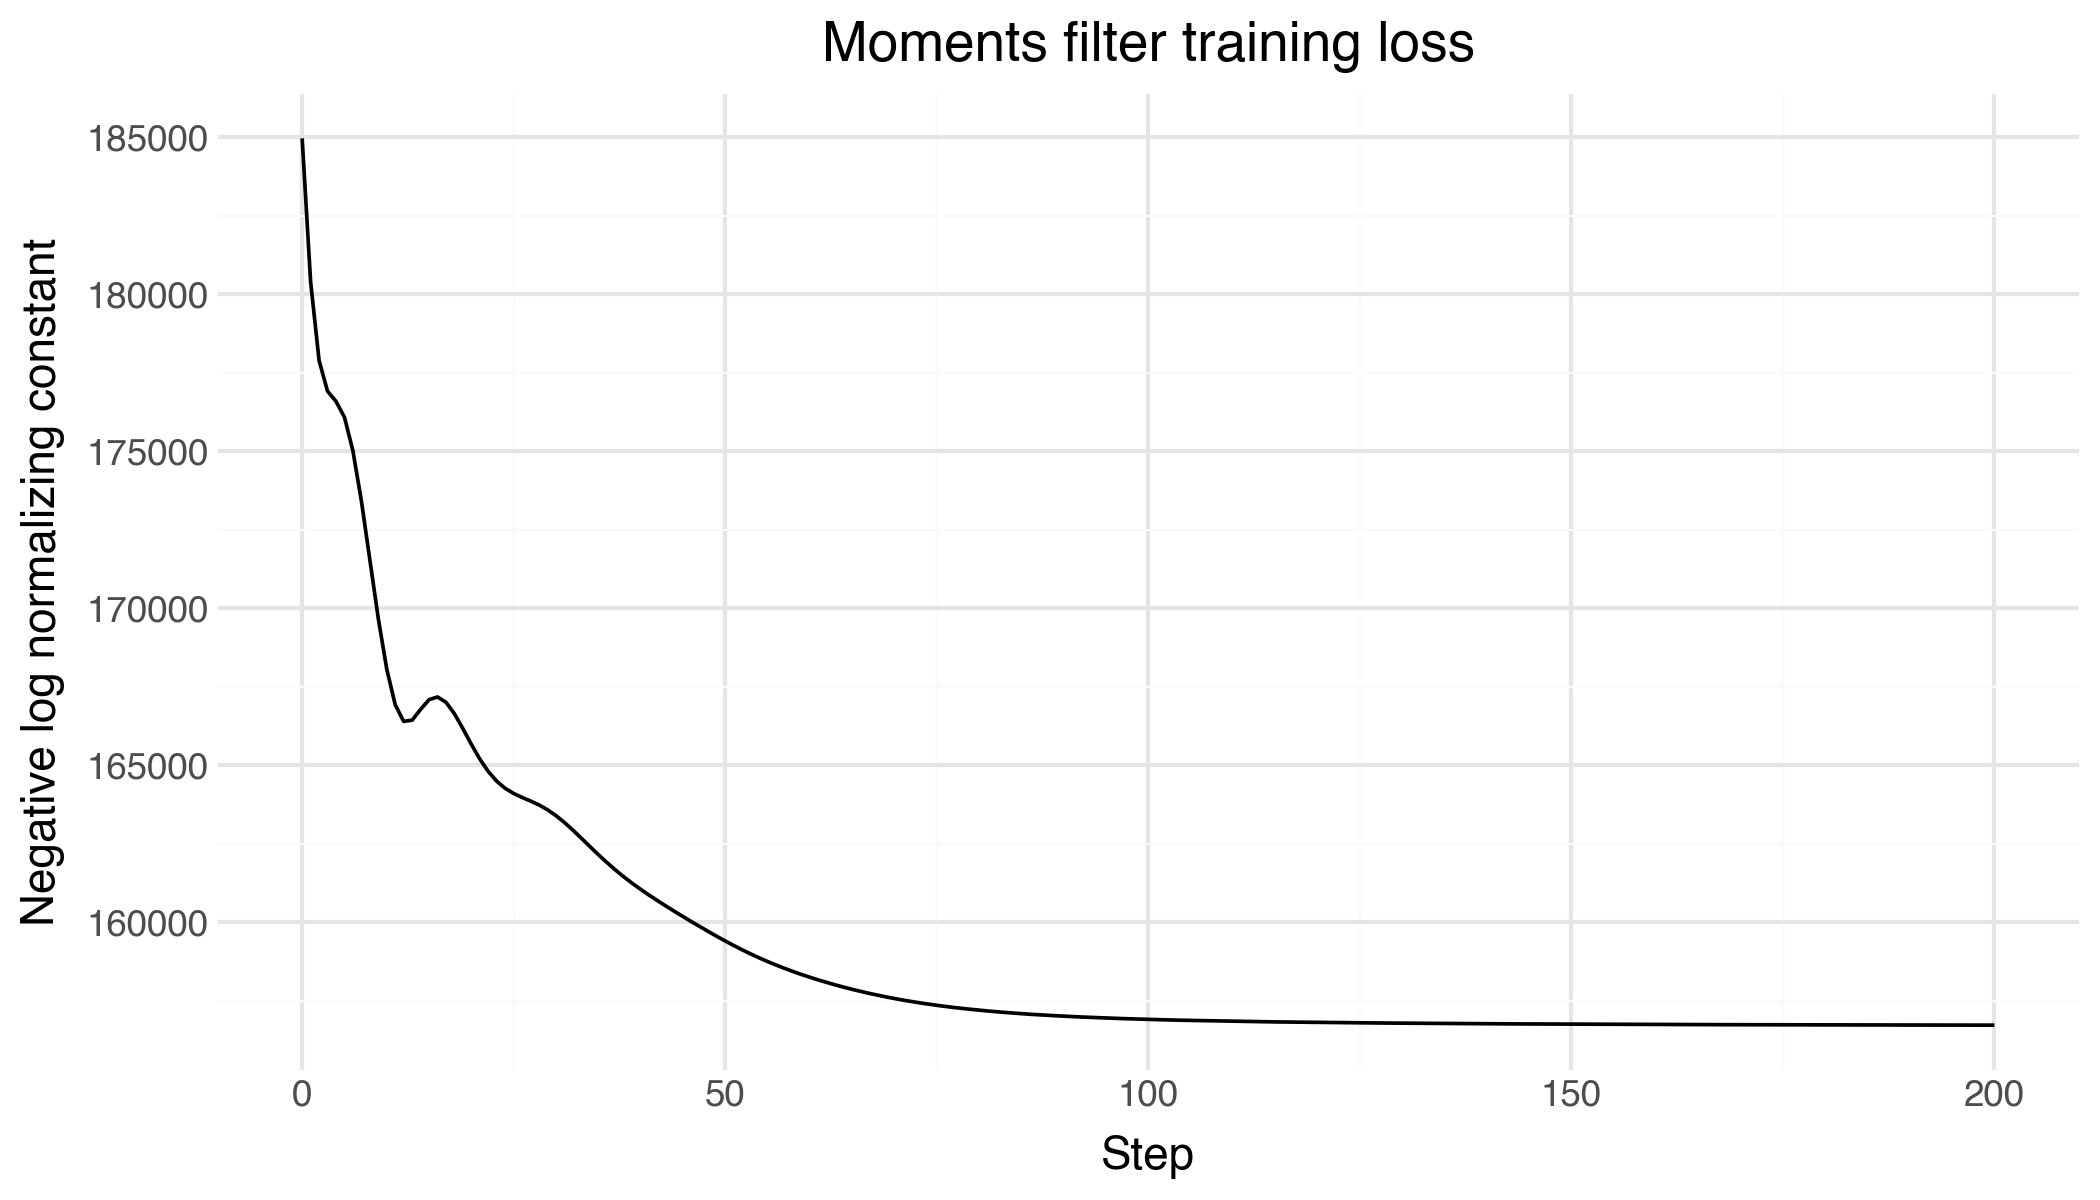
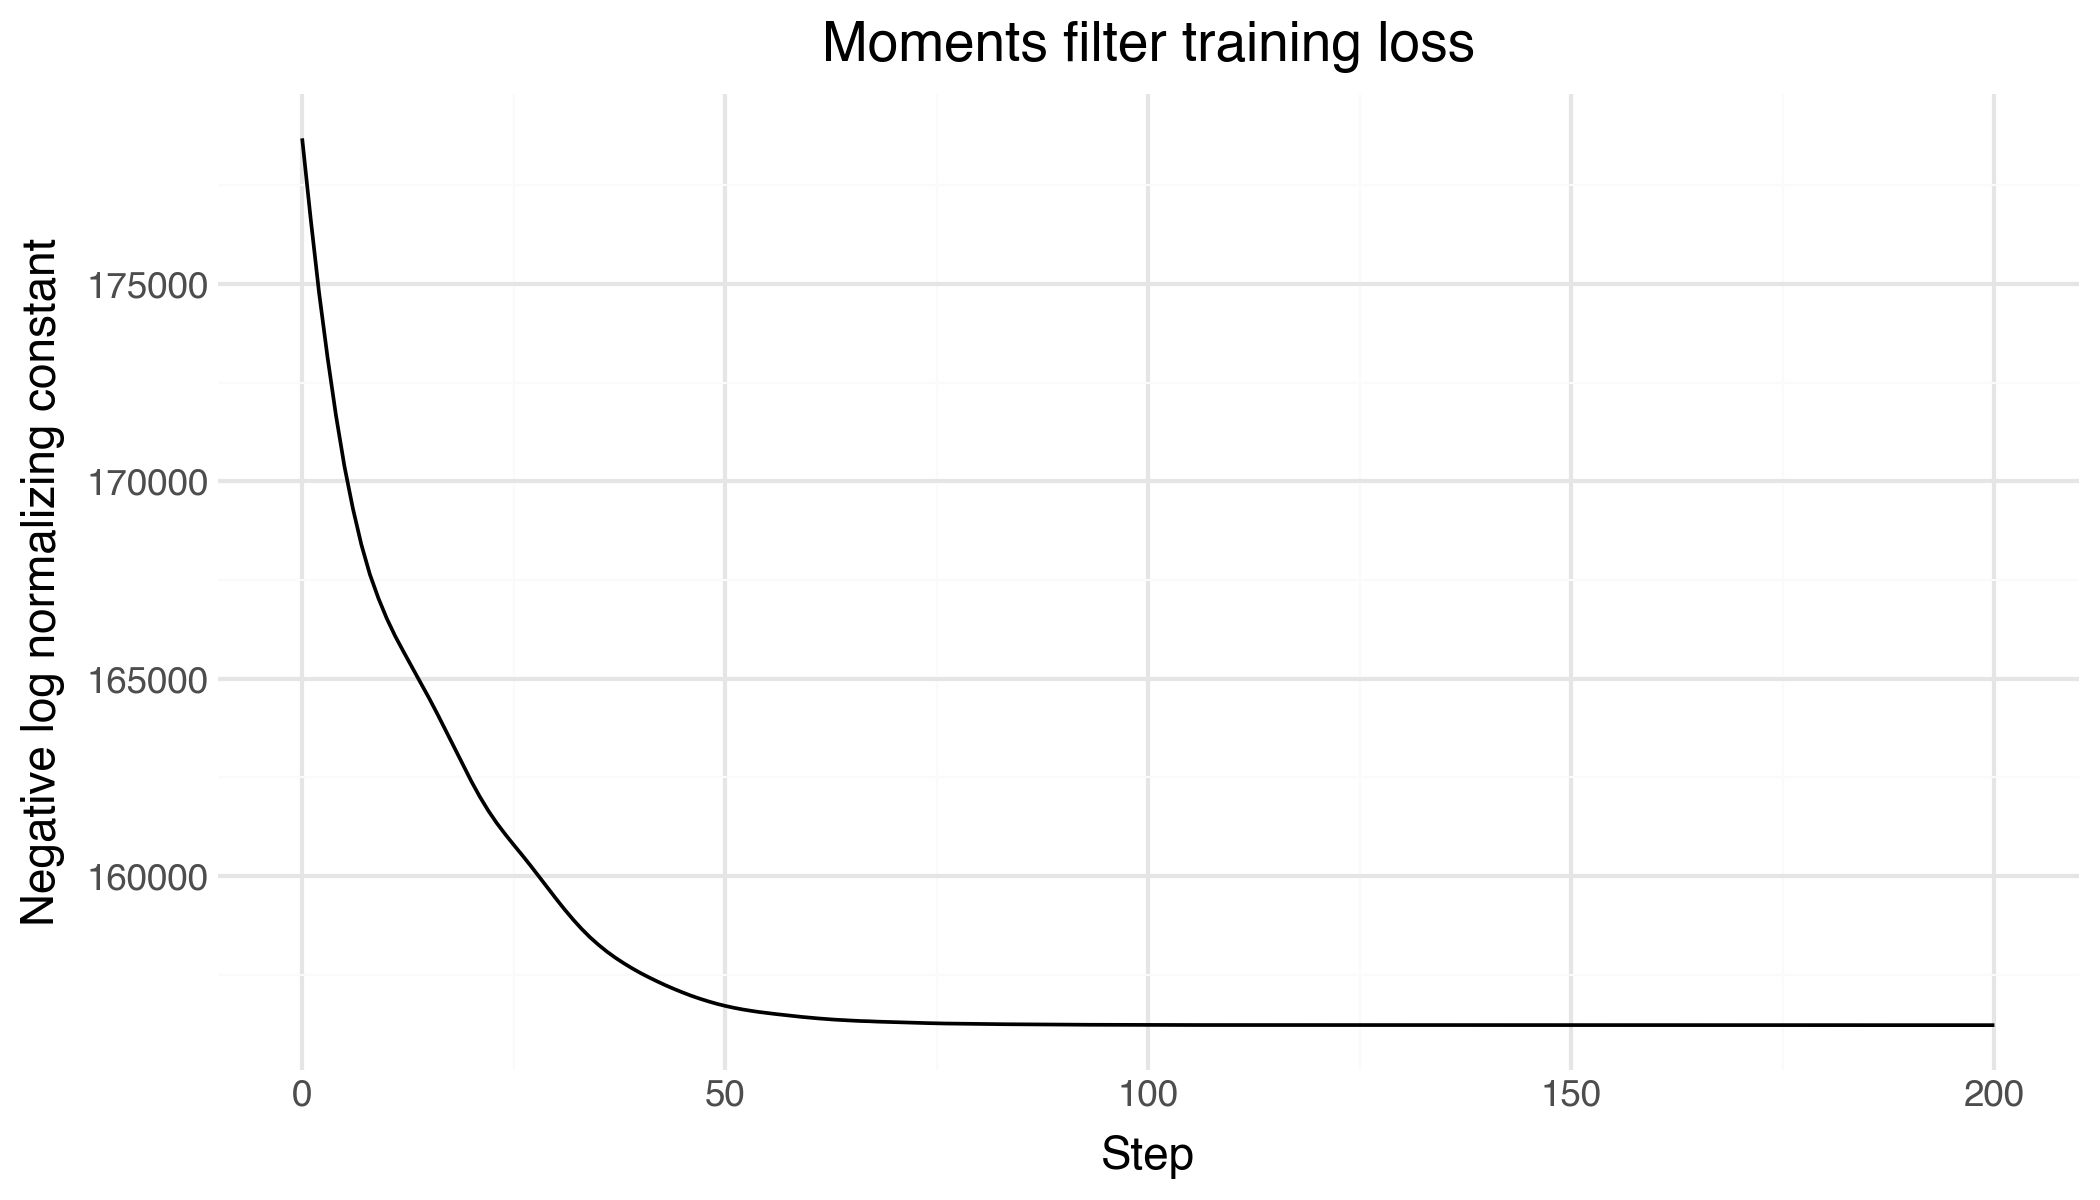
Revert to init_cov, remove \kappa

diff --git a/tests/test_model_moments.py b/tests/test_model_moments.py
@@ -18,8 +18,7 @@ num_teams = 5
 init_mean = jnp.array([1.2, 3.2])
 init_cov = jnp.array([[0.09, -0.12], [-0.12, 1.21]])
 init_chol_cov = jnp.linalg.cholesky(init_cov)
-tau = jnp.array([0.1, 0.2])
-kappa = jnp.array([0.0, 0.0])
+kappa = jnp.array([0.1, 0.2])
 alpha = 1.0
 beta = -4.0
 friendly_scale = 1.5
@@ -33,7 +32,10 @@ filter = moments.build_filter(
         num_teams=num_teams,
     ),
     get_dynamics_params=partial(
-        get_dynamics_params, tau=tau, init_mean=init_mean, kappa=kappa
+        get_dynamics_params,
+        init_mean=init_mean,
+        init_chol_cov=init_chol_cov,
+        kappa=kappa,
     ),
     get_observation_params=partial(
         get_observation_params,
@@ -89,13 +91,11 @@ def test_dynamics_params():
     state = filter.init_prepare(None)
     model_inputs = _result_data()
     mean_func, lin_point = get_dynamics_params(
-        state, model_inputs, tau, init_mean, kappa
+        state, model_inputs, init_mean, init_chol_cov, kappa
     )
 
     mat, shift, chol_cov = linearize_moments(mean_func, lin_point)
 
-    assert jnp.allclose(jnp.eye(4), mat)
-    assert jnp.array_equal(jnp.zeros(4), shift)
     assert model_inputs.home_timestamp_previous is not None
     assert model_inputs.away_timestamp_previous is not None
     time_diffs = model_inputs.timestamp - jnp.array(
@@ -105,9 +105,47 @@ def test_dynamics_params():
         ]
     )
     time_diffs_repeated = jnp.repeat(time_diffs, 2)
-    tau_repeated = jnp.tile(tau, 2)
-    desired_cov = jnp.diag((tau_repeated**2) * time_diffs_repeated)
-    assert jnp.allclose(desired_cov, chol_cov @ chol_cov.T)
+    kappa_repeated = jnp.tile(kappa, 2)
+    phi = jnp.exp(-kappa_repeated * time_diffs_repeated)
+    init_mean_repeated = jnp.tile(init_mean, 2)
+    stationary_cov = jnp.kron(jnp.eye(2), init_cov)
+    desired_cov = stationary_cov * (1.0 - phi[:, None] * phi[None, :])
+
+    assert jnp.allclose(jnp.diag(phi), mat)
+    assert jnp.allclose(init_mean_repeated * (1.0 - phi), shift)
+    assert jnp.allclose(
+        desired_cov,
+        chol_cov @ chol_cov.T,
+        atol=1e-6,
+    )
+
+
+def test_dynamics_stationary_covariance_is_init_cov():
+    state = filter.init_prepare(None)
+    model_inputs = _result_data()
+    mean_func, _ = get_dynamics_params(
+        state, model_inputs, init_mean, init_chol_cov, kappa
+    )
+
+    assert model_inputs.home_timestamp_previous is not None
+    assert model_inputs.away_timestamp_previous is not None
+    time_diffs = model_inputs.timestamp - jnp.array(
+        [
+            model_inputs.home_timestamp_previous,
+            model_inputs.away_timestamp_previous,
+        ]
+    )
+    time_diffs_repeated = jnp.repeat(time_diffs, 2)
+    phi = jnp.exp(-jnp.tile(kappa, 2) * time_diffs_repeated)
+    stationary_cov = jnp.kron(jnp.eye(2), init_cov)
+    transition_mean, transition_chol_cov = mean_func(jnp.tile(init_mean, 2))
+    propagated_cov = (
+        jnp.diag(phi) @ stationary_cov @ jnp.diag(phi)
+        + transition_chol_cov @ transition_chol_cov.T
+    )
+
+    assert jnp.allclose(jnp.tile(init_mean, 2), transition_mean)
+    assert jnp.allclose(stationary_cov, propagated_cov, atol=1e-6)
 
 
 def test_observation_params_match_bivariate_poisson_moments():
@@ -148,7 +186,10 @@ def test_noop_observation_leaves_dynamics_only_update_at_prediction():
             num_teams=None,
         ),
         get_dynamics_params=partial(
-            get_dynamics_params, tau=tau, init_mean=init_mean, kappa=kappa
+            get_dynamics_params,
+            init_mean=init_mean,
+            init_chol_cov=init_chol_cov,
+            kappa=kappa,
         ),
         get_observation_params=get_observation_params_noop,
     )
@@ -162,10 +203,10 @@ def test_noop_observation_leaves_dynamics_only_update_at_prediction():
     prep_state = single_team_filter.filter_prepare(model_inputs)
     update_state = single_team_filter.filter_combine(init_state, prep_state)
 
-    desired_cov = init_cov + jnp.diag((tau**2) * 10)
     assert jnp.allclose(init_mean, update_state.mean)
     assert jnp.allclose(
-        desired_cov,
+        init_cov,
         update_state.chol_cov @ update_state.chol_cov.T,
+        atol=1e-6,
     )
     assert jnp.allclose(0.0, update_state.log_normalizing_constant)

diff --git a/scripts/run_moments_filtering.py b/scripts/run_moments_filtering.py
@@ -1,10 +1,11 @@
-"""Run taylor filtering on the data, for arbitrary (not learnt) static parameters."""
+"""Run moments filtering on the data, for arbitrary (not learnt) static parameters."""
 
 from functools import partial
 from jax import numpy as jnp
 import jax
 import pandas as pd
 import plotnine as pn
+import json
 from cuthbert.gaussian import moments
 from cuthbert.factorial.gaussian import build_factorializer
 from cuthbert.factorial import filter as factorial_filter
@@ -20,7 +21,7 @@ pd_data, jax_data, teams_id_to_name_dict, teams_name_to_id_dict = download_data(
     max_goals=max_goals
 )
 
-average_goals_in_a_draw = (
+average_goals_per_team_in_a_draw = (
     pd_data[pd_data["home_score"] == pd_data["away_score"]][
         ["home_score", "away_score"]
     ]
@@ -28,32 +29,27 @@ average_goals_in_a_draw = (
     .mean()
 )
 
-# init_mean = jnp.array([0.0, 0.0])
+init_mean = jnp.array([0.0, 0.0])
+
 # init_cov = jnp.array([[1.0, 0.2], [0.2, 1.0]])
-# tau = 0.01
 # kappa = 1e-4
 # friendly_scale = 1.0
-# alpha = jnp.log(
-#     average_goals_in_a_draw
-# )  # exp(alpha) is expected goals for an evenly matched game
+alpha = jnp.log(
+    average_goals_per_team_in_a_draw
+)  # exp(alpha) is expected goals for an evenly matched game
 # beta = -2.0
 
-init_mean = jnp.array([0.0, 0.0])
-init_cov = jnp.array(
-    [
-        [1.1433665349613875e-05, 1.1013270523108076e-05],
-        [1.1013270523108076e-05, 1.1433665349613875e-05],
-    ]
-)
-tau = 0.0046978965401649475
-kappa = 1.9071430870098993e-05
-friendly_scale = 1.0385863780975342
-alpha = 0.8146775960922241
-beta = -5.207250118255615
+
+params_file = "outputs/moments_params.json"
+with open(params_file, "r") as f:
+    params = json.load(f)["params"]
+
+params = {k: jnp.asarray(v) for k, v in params.items()}
+
 
 num_teams = len(teams_id_to_name_dict)
 
-init_chol_cov = jnp.linalg.cholesky(init_cov)
+init_chol_cov = jnp.linalg.cholesky(params["init_cov"])
 
 # Add dummy element at index 0 for each leaf
 model_inputs = jax.tree.map(
@@ -68,13 +64,16 @@ filter = moments.build_filter(
         num_teams=num_teams,
     ),
     get_dynamics_params=partial(
-        model_moments.get_dynamics_params, tau=tau, init_mean=init_mean, kappa=kappa
+        model_moments.get_dynamics_params,
+        init_mean=init_mean,
+        init_chol_cov=init_chol_cov,
+        kappa=params["kappa"],
     ),
     get_observation_params=partial(
         model_moments.get_observation_params,
-        alpha=alpha,
-        beta=beta,
-        friendly_scale=friendly_scale,
+        alpha=params["alpha"],
+        beta=params["beta"],
+        friendly_scale=params["friendly_scale"],
     ),
 )
 factorializer = build_factorializer(
@@ -117,7 +116,10 @@ single_team_filter = moments.build_filter(
         init_chol_cov=init_chol_cov,
     ),
     get_dynamics_params=partial(
-        model_moments.get_dynamics_params, tau=tau, init_mean=init_mean, kappa=kappa
+        model_moments.get_dynamics_params,
+        init_mean=init_mean,
+        init_chol_cov=init_chol_cov,
+        kappa=params["kappa"],
     ),
     get_observation_params=model_moments.get_observation_params_noop,
 )
@@ -181,5 +183,4 @@ team_strength_plot = (
     + pn.theme_minimal()
     + pn.theme(figure_size=(10, 7))
 )
-# team_strength_plot.save("taylor_filtering_team_strengths.png", dpi=300, verbose=False)
-team_strength_plot.show()
+team_strength_plot.save("outputs/team_strength_plot.png", dpi=300, verbose=False)

diff --git a/cuthberto_carlos/model_moments.py b/cuthberto_carlos/model_moments.py
@@ -67,28 +67,26 @@ def _process_timestamp(t: ArrayLike, num_joined_factors: int) -> Array:
 def get_dynamics_params(
     state: LinearizedKalmanFilterState,
     model_inputs: ResultData | DynamicsOnlyData,
-    tau: ArrayLike,
     init_mean: ArrayLike,
+    init_chol_cov: ArrayLike,
     kappa: ArrayLike,
 ) -> tuple[MeanAndCholCovFunc, Array]:
     """Get conditional moments for the OU state dynamics.
 
     We have Ornstein-Uhlenbeck dynamics:
-    x_t | x_{t-1} ~ N(mu + phi * (x_{t-1} - mu),
-    tau^2 * (1 - phi^2) / (2 * kappa)),
-    where phi = exp(-kappa * (timestamp_t - timestamp_{t-1})).
-    When kappa = 0, this recovers Brownian dynamics with variance
-    tau^2 * (timestamp_t - timestamp_{t-1}).
+    x_t | x_{t-1} ~ N(mu + phi * (x_{t-1} - mu), Q_t),
+    where phi = exp(-kappa * (timestamp_t - timestamp_{t-1})) and Q_t is chosen
+    so that the long-term marginal distribution is N(init_mean, init_cov).
 
     Args:
         state: The current state of the Kalman filter.
             Only used to determine the number of joined factors.
         model_inputs: The match data, used to determine the time between matches.
-        tau: Diffusion standard deviation per sqrt day.
-            Shape (,), (1,) or (2,) for attack and defence.
         init_mean: Long-run mean of the OU dynamics.
             Shape (2,) for attack and defence.
-        kappa: Mean-reversion rate per day. kappa = 0 gives Brownian dynamics.
+        init_chol_cov: Cholesky factor of the long-run covariance of the OU dynamics.
+            Shape (2, 2) for attack and defence.
+        kappa: Mean-reversion rate per day.
             Shape (,), (1,) or (2,) for attack and defence.
 
     Returns:
@@ -96,11 +94,10 @@ def get_dynamics_params(
         Cholesky covariance of x_t, and a linearization point for x_{t-1}.
     """
     num_joined_factors = state.mean.shape[0] // 2  # Can be 1
-    tau = jnp.broadcast_to(tau, (2,))
     init_mean = jnp.broadcast_to(init_mean, (2,))
+    init_chol_cov = jnp.asarray(init_chol_cov)
     kappa = jnp.broadcast_to(kappa, (2,))
 
-    tau_repeated = jnp.tile(tau, num_joined_factors)
     init_mean_repeated = jnp.tile(init_mean, num_joined_factors)
     kappa_repeated = jnp.tile(kappa, num_joined_factors)
 
@@ -126,15 +123,13 @@ def get_dynamics_params(
 
     elapsed_days = jnp.maximum(timestamp - timestamp_previous, 0)
     phi = jnp.exp(-kappa_repeated * elapsed_days)
-    safe_kappa = jnp.where(kappa_repeated > 0, kappa_repeated, 1.0)
-    one_minus_phi_squared = -jnp.expm1(-2.0 * kappa_repeated * elapsed_days)
-    ou_variance = tau_repeated**2 * one_minus_phi_squared / (2.0 * safe_kappa)
-    brownian_variance = tau_repeated**2 * elapsed_days
-    variance = jnp.where(kappa_repeated > 0, ou_variance, brownian_variance)
-    std_floor = 1e-3
-    variance = jnp.where(variance > std_floor**2, variance, std_floor**2)
-    std_devs = jnp.sqrt(variance)
-    chol_cov = jnp.diag(std_devs)
+    init_cov = init_chol_cov @ init_chol_cov.T
+    stationary_cov = jnp.kron(jnp.eye(num_joined_factors), init_cov)
+    transition_cov = stationary_cov * (1.0 - phi[:, None] * phi[None, :])
+    jitter = 1e-8
+    chol_cov = jnp.linalg.cholesky(
+        transition_cov + jitter * jnp.eye(transition_cov.shape[0])
+    )
 
     def dynamics_mean_and_chol_cov(x_prev: ArrayLike) -> tuple[Array, Array]:
         x_prev = jnp.asarray(x_prev)

diff --git a/scripts/train_moments.py b/scripts/train_moments.py
@@ -1,7 +1,5 @@
 """Train the moment-based Gaussian filter parameters."""
 
-from __future__ import annotations
-
 from functools import partial
 import json
 from pathlib import Path
@@ -31,7 +29,6 @@ MAX_GOALS = 8
 MAX_MATCHES = None  # Set to a small integer, e.g. 100, for quick smoke runs.
 
 # Initial parameter values on the constrained scale.
-# INITIAL_TAU = 0.01
 # INITIAL_KAPPA = 1e-4
 # INITIAL_FRIENDLY_SCALE = 1.0
 # INITIAL_ALPHA = 0.2
@@ -40,7 +37,6 @@ MAX_MATCHES = None  # Set to a small integer, e.g. 100, for quick smoke runs.
 # INITIAL_INIT_CORR = 0.0
 # INIT_MEAN = jnp.array([0.0, 0.0])
 
-INITIAL_TAU = 0.01
 INITIAL_KAPPA = 1e-2
 INITIAL_FRIENDLY_SCALE = 2.0
 INITIAL_ALPHA = 0.2
@@ -75,7 +71,6 @@ def constrain_params(raw_params: dict[str, jax.Array]) -> dict[str, jax.Array]:
         ]
     )
     return {
-        "tau": positive(raw_params["tau"]),
         "kappa": positive(raw_params["kappa"]),
         "friendly_scale": positive(raw_params["friendly_scale"]),
         "alpha": raw_params["alpha"],
@@ -90,7 +85,6 @@ def constrain_params(raw_params: dict[str, jax.Array]) -> dict[str, jax.Array]:
 def params_to_jsonable(params: dict[str, jax.Array]) -> dict[str, float | list]:
     """Convert constrained JAX params to JSON-serializable values."""
     return {
-        "tau": float(params["tau"]),
         "kappa": float(params["kappa"]),
         "friendly_scale": float(params["friendly_scale"]),
         "alpha": float(params["alpha"]),
@@ -105,7 +99,6 @@ def params_to_jsonable(params: dict[str, jax.Array]) -> dict[str, float | list]:
 def format_params(params: dict[str, jax.Array]) -> str:
     """Format constrained scalar parameters for logging."""
     return (
-        f"tau={float(params['tau']):.6g}, "
         f"kappa={float(params['kappa']):.6g}, "
         f"friendly_scale={float(params['friendly_scale']):.6g}, "
         f"alpha={float(params['alpha']):.6g}, "
@@ -137,7 +130,6 @@ num_teams = len(teams_id_to_name_dict)
 
 
 raw_params = {
-    "tau": inverse_positive(INITIAL_TAU),
     "kappa": inverse_positive(INITIAL_KAPPA),
     "friendly_scale": inverse_positive(INITIAL_FRIENDLY_SCALE),
     "alpha": jnp.asarray(INITIAL_ALPHA),
@@ -163,8 +155,8 @@ def log_normalizing_constant(raw_params: dict[str, jax.Array]) -> jax.Array:
         ),
         get_dynamics_params=partial(
             model_moments.get_dynamics_params,
-            tau=params["tau"],
             init_mean=INIT_MEAN,
+            init_chol_cov=params["init_chol_cov"],
             kappa=params["kappa"],
         ),
         get_observation_params=partial(

diff --git a/README.md b/README.md
@@ -30,13 +30,19 @@ p(x^i_0) &= \mathrm{N}(x^i_0 \mid \mu_0, \Sigma_0),
 \\
 p(x^i_k \mid x^i_{k-1}) &= \mathrm{N}\left(x^i_k \mid
 \mu_0 + \phi_k (x^i_{k-1} - \mu_0),
-\frac{\tau^2(1 - \phi_k^2)}{2\kappa}\right),
+Q_k\right),
 \\
 p(y_k \mid x^i_k, x^j_k) &= \mathrm{BivariatePoisson}(y_k \mid x^i_k, x^j_k, \alpha, \beta).
 \end{aligned}
 $$
 
-where $\phi_k = \exp(-\kappa(t_k - t_{k-1}))$ and $y_k = (y_k^i, y_k^j)$ is the observed number of goals scored by teams $i$ and $j$ in match $k$. The Brownian model is recovered in the limit $\kappa \to 0$, where the transition mean becomes $x^i_{k-1}$ and the transition variance becomes $\tau^2(t_k - t_{k-1})$.
+where $\phi_k = \exp(-\kappa(t_k - t_{k-1}))$ and $y_k = (y_k^i, y_k^j)$ is the observed number of goals scored by teams $i$ and $j$ in match $k$. In the moment-based Gaussian implementation, $Q_k$ is chosen so that the long-run marginal distribution is $\mathrm{N}(\mu_0, \Sigma_0)$. For diagonal mean-reversion rates $\kappa = (\kappa_{\text{att}}, \kappa_{\text{def}})$, writing $\Phi_k = \mathrm{diag}(\phi_k)$ gives
+
+$$
+Q_k = \Sigma_0 - \Phi_k \Sigma_0 \Phi_k.
+$$
+
+This allows the attack and defence components to revert jointly to the initial covariance, including any attack-defence correlation encoded in $\Sigma_0$.
 
 The bivariate Poisson distribution is defined as follows (see 4.6 in DPR):
 
@@ -47,7 +53,7 @@ $$
 with $\lambda_1 = \exp(\alpha + x^{\text{att}, i} - x^{\text{def}, j})$, $\lambda_2 = \exp(\alpha + x^{\text{att}, j} - x^{\text{def}, i})$ and $\lambda_3 = \exp(\beta)$.
 
 
-Overall, the static parameters of the models are $\mu_0 \in \mathbb{R}^2$, $\Sigma_0 \in \mathbb{R}^{2 \times 2}$, $\tau \in \mathbb{R}\_{> 0}^2$, $\kappa \in \mathbb{R}\_{\ge 0}^2$, $\alpha \in \mathbb{R}$ and $\beta \in \mathbb{R}$.
+Overall, the static parameters of the models are $\mu_0 \in \mathbb{R}^2$, $\Sigma_0 \in \mathbb{R}^{2 \times 2}$, $\kappa \in \mathbb{R}\_{\ge 0}^2$, $\alpha \in \mathbb{R}$ and $\beta \in \mathbb{R}$.
 
 
 ### Inference